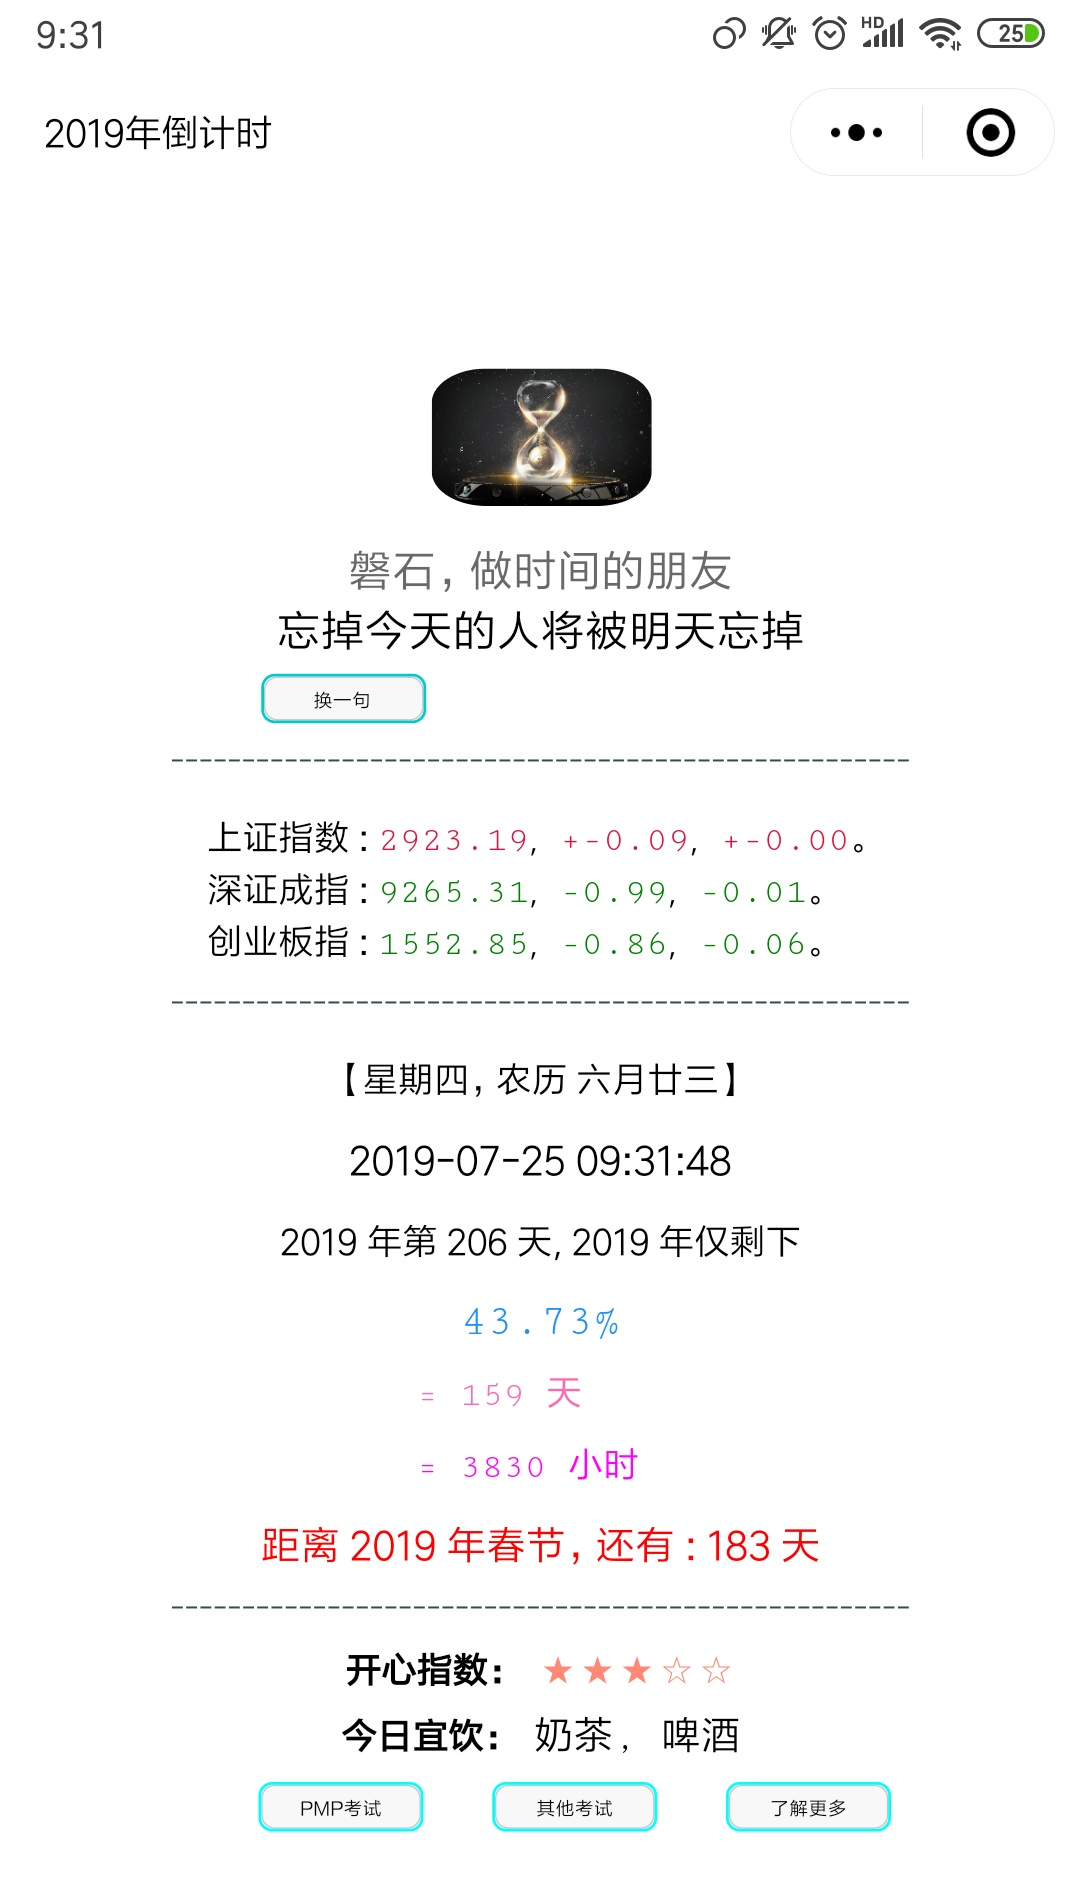
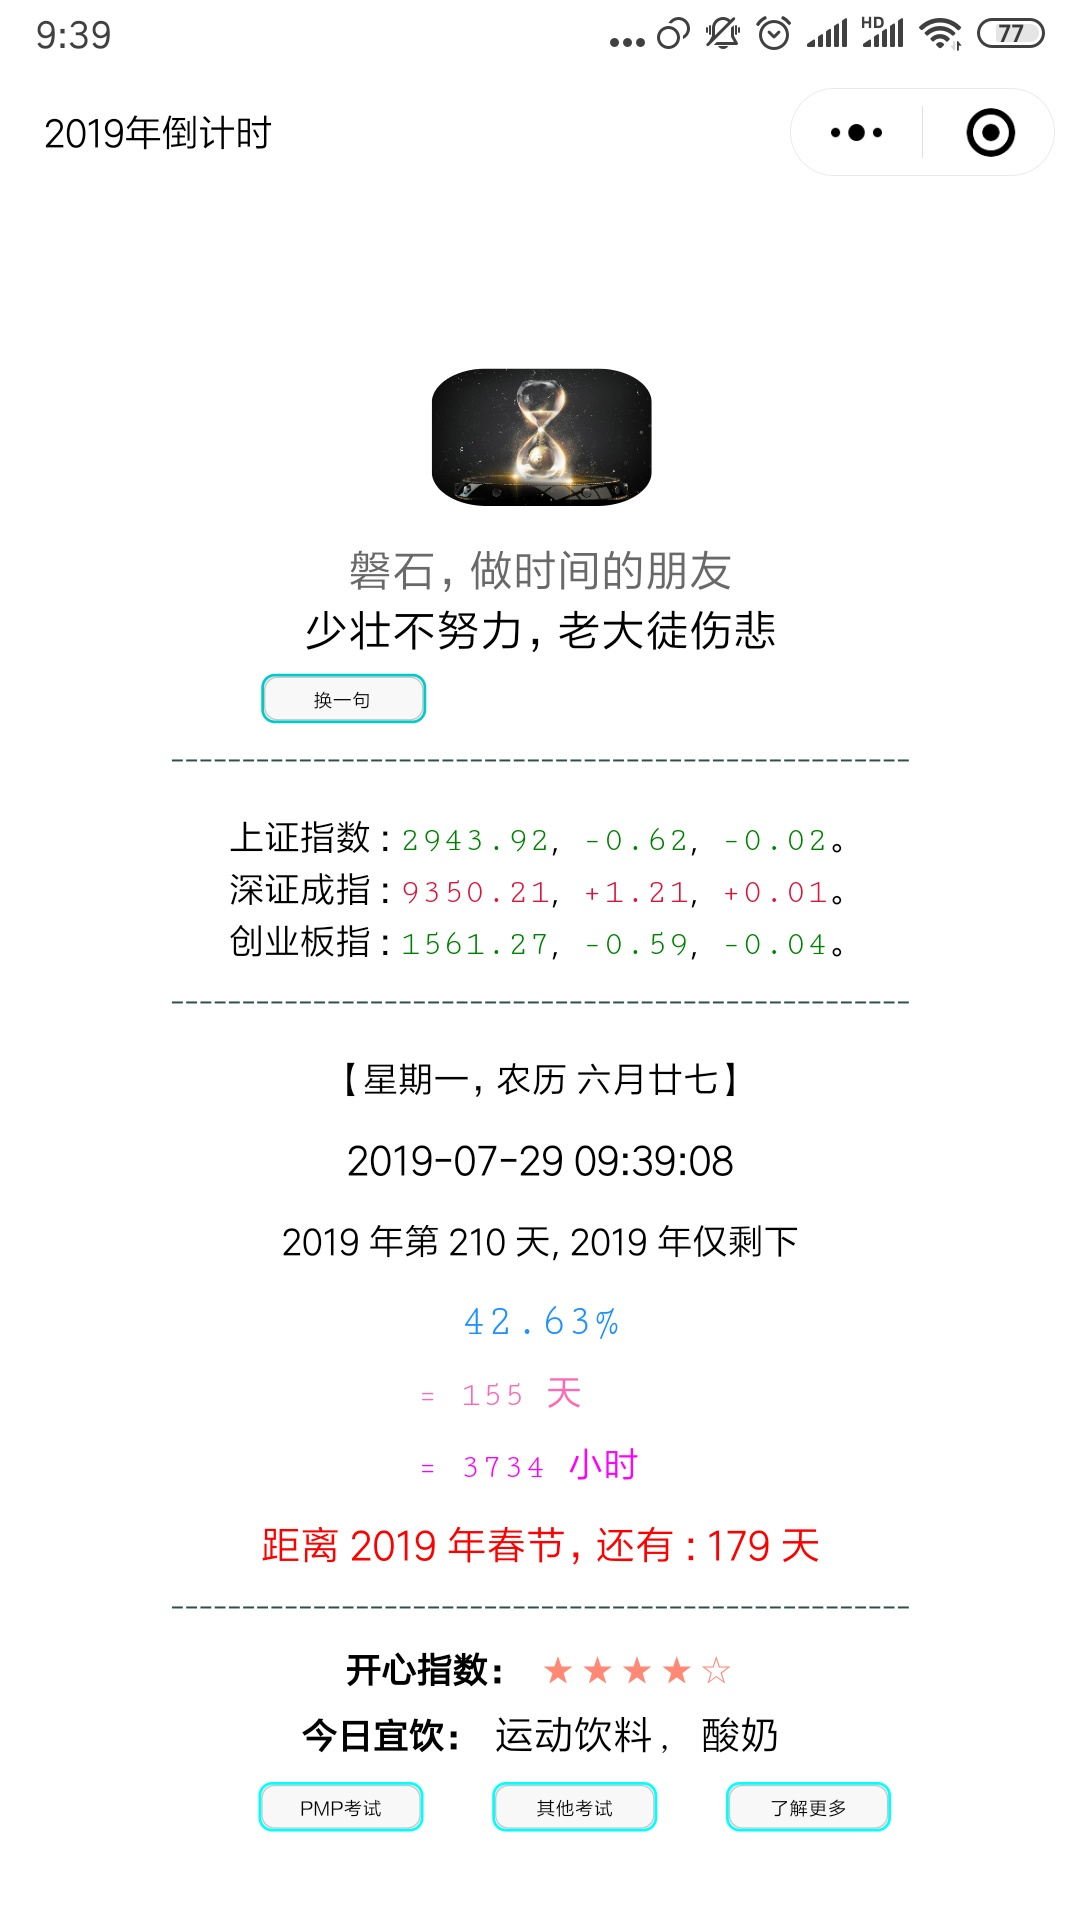
update 20190731

diff --git a/source/_posts/001_2-FD_my_life_records-2019.md b/source/_posts/001_2-FD_my_life_records-2019.md
@@ -1,5 +1,5 @@
 ---
-title: 坚持的力量之数据人生-2019年7月26日
+title: 坚持的力量之数据人生-2019年7月29日
 tags:
   - 数据人生
   - 参考模板
@@ -20,14 +20,14 @@ keywords:
   - 宽978高553
 photos:
   - '/images/001_2/photos.png'
-description: 今天：2019 年 7 月 26 日，2019 年仅剩下 158 天。坚持记录和分析生活中的数据、信息和事件，尊重历史数据、信息和事件，人生将会更美好。
-date: 2019-07-26 00:02:05
+description: 今天：2019 年 7 月 29 日，2019 年仅剩下 155 天。坚持记录和分析生活中的数据、信息和事件，尊重历史数据、信息和事件，人生将会更美好。
+date: 2019-07-29 00:02:05
 ---
 <script type="text/javascript" src="/js/src/bai.js"></script>
 
-### 坚持的力量之数据人生-2019年7月26日
+### 坚持的力量之数据人生-2019年7月29日
 ------
-> 今天：2019 年 7 月 26 日，2019 年仅剩下 158 天。坚持记录和分析生活中的数据、信息和事件，尊重历史数据、信息和事件，人生将会更美好。
+> 今天：2019 年 7 月 29 日，2019 年仅剩下 155 天。坚持记录和分析生活中的数据、信息和事件，尊重历史数据、信息和事件，人生将会更美好。
 >
 > 序言：坚持记录和分析生活中的数据、信息和事件，尊重历史数据、信息和事件，人生将会更美好。
 
@@ -67,11 +67,11 @@ date: 2019-07-26 00:02:05
 
 | 序号 |       名称                                            |  类型  | 开始/结束日期 | 总天数 |          备注                           |
 | :--: | :---------------------------------------------------: | :----: | :-----------: | :----: | :-------------------------------------: |
-|  1   | <font color="#FF0000" size=2>读书荐书第 4/4 更</font> | 倒计时 | 2019/10/01    |  67    | 开始时间：2019/7/1                      |
-|  2   | <font color="#FF0000" size=2>重要节点</font>          | 倒计时 | 2020/03/01    |  220   | 开始时间：2018/6/15 剩余 10 个月        |
-|  3   | <font color="#6495ED" size=2>来上海</font>            | 计时   | 2011/06/25    |  2953  | 第 8 年进行中                           |
-|  4   | <font color="#6495ED" size=2>莫名其妙的计时</font>    | 计时   | 2018/11/12    |  252   | 莫名其妙的计时，希望永远不会停 ！！！   |
-|  5   | <font color="#6495ED" size=2>坚持减肥-2</font>        | 计时   | 2019/06/28    |  31    | 坚持减肥，目标 65 公斤，保持一个月      |
+|  1   | <font color="#FF0000" size=2>读书荐书第 4/4 更</font> | 倒计时 | 2019/10/01    |  64    | 开始时间：2019/7/1                      |
+|  2   | <font color="#FF0000" size=2>重要节点</font>          | 倒计时 | 2020/03/01    |  217   | 开始时间：2018/6/15 剩余 10 个月        |
+|  3   | <font color="#6495ED" size=2>来上海</font>            | 计时   | 2011/06/25    |  2956  | 第 8 年进行中                           |
+|  4   | <font color="#6495ED" size=2>莫名其妙的计时</font>    | 计时   | 2018/11/12    |  255   | 莫名其妙的计时，希望永远不会停 ！！！   |
+|  5   | <font color="#6495ED" size=2>坚持减肥-3               | 计时   | 2019/08/31    |  1     | 坚持减肥，目标 65 公斤，保持一个月      |
 |  6   | <font color="#6495ED" size=2>每日一章札记</font>      | 计时   | 2018/05/26    |  210   | 无特殊情况每日读一章书且并做笔记        |
 |  7   | <font color="#6495ED" size=2>每日五篇好文推荐</font>  | 计时   | 2018/10/24    |  60    | 无特殊情况从自己读的文章中推荐五篇      |
 |  8   | <font color="#6495ED" size=2>公众号更新</font>        | 计时   | 2018/12/01    |  80    | 无特殊情况微信公众号日更（4 篇删除）    |
@@ -82,11 +82,11 @@ date: 2019-07-26 00:02:05
 
 | 日期                                   | 记账新增记录 | 记账总记录 | 记账总天数 | 记账时间      | 备注     |
 | :------:                               | :------:     | :------:   | :------:   | :------:      | :------: |
-|<font color="#000000"> 20190722 </font> | 23           | 10526      | 3072       | 8 年零 144 天 | 无       |
-|<font color="#000000"> 20190723 </font> | 2            | 10528      | 3074       | 8 年零 145 天 | 无       |
-|<font color="#000000"> 20190724 </font> | 3            | 10531      | 3075       | 8 年零 146 天 | 无       |
 |<font color="#000000"> 20190725 </font> | 2            | 10533      | 3076       | 8 年零 147 天 | 无       |
-|<font color="#FF0000"> 20190726 </font> | 6            | 10539      | 3077       | 8 年零 148 天 | 无       |
+|<font color="#000000"> 20190726 </font> | 6            | 10539      | 3077       | 8 年零 148 天 | 无       |
+|<font color="#000000"> 20190727 </font> | 4            | 10543      | 3078       | 8 年零 149 天 | 无       |
+|<font color="#000000"> 20190728 </font> | 3            | 10546      | 3079       | 8 年零 150 天 | 无       |
+|<font color="#FF0000"> 20190729 </font> | 10           | 10556      | 3080       | 8 年零 151 天 | 无       |
 
 #### 3. 历史数据汇总
 ##### 3.1 已结束倒计时或计时数据
@@ -101,10 +101,11 @@ date: 2019-07-26 00:02:05
 |  6   | 小袋鼠回老家家-2  | 计时   | 2019/01/13    |  116   | 截止 2019/05/09，在老家呆的时间（已结束） |
 |  7   | 小袋鼠回老家家-3  | 倒计时 | 2019/05/18    |  0     | 开始时间：2019/5/10，回老家               |
 |  8   | 第一阶段减肥      | 倒计时 | 2019/07/01    |  5     | 目标 68，开始 20190420，20190626：67.5    |
-|  9   | 坚持减肥-1        | 计时   | 2019/04/20    |  68    | 坚持减肥，目标 68 公斤，20160628：67.5    |
+|  9   | 坚持减肥-1        | 计时   | 2019/04/20    |  67    | 坚持减肥，目标 68 公斤，20160628：67.5    |
 |  10  | 读书荐书第 3/4 更 | 倒计时 | 2019/07/01    |  0     | 开始时间：2019/4/2（已结束）              |
 |  11  | 小袋鼠回老家家-4  | 计时   | 2019/05/19    |  47    | 截止 2019/07/04，在老家呆的时间（已结束） |
 |  12  | 小袋鼠回上海      | 倒计时 | 2019/07/05    |  0     | 开始时间：2018/6/24 剩余 11 天（已结束）  |
+|  13  | 坚持减肥-2        | 计时   | 2019/06/29    |  33    | 坚持减肥，目标 65 公斤，保持一个月        |
 
 ##### 3.2 当年记账历史数据
 | 序号     | 月份      | 累计记账条数| 备注                     |

diff --git a/source/_posts/001_1-FD_2018_year_all_checker-2019.md b/source/_posts/001_1-FD_2018_year_all_checker-2019.md
@@ -1,5 +1,5 @@
 ---
-title: 2019年每日日常综合打卡-2019年7月26日
+title: 2019年每日日常综合打卡-2019年7月29日
 tags:
   - 数据人生
   - 参考模板
@@ -21,14 +21,14 @@ keywords:
   - 宽978高553
 photos:
   - '/images/001_1/photos.png'
-description: 今天：2019 年 7 月 26 日，2019 年仅剩下 158 天。每日打卡，7 月份针对每个任务打卡，慢慢来，一切都会更好的。
-date: 2019-07-26 00:01:01
+description: 今天：2019 年 7 月 29 日，2019 年仅剩下 155 天。每日打卡，7 月份针对每个任务打卡，慢慢来，一切都会更好的。
+date: 2019-07-29 00:01:01
 ---
 <script type="text/javascript" src="/js/src/bai.js"></script>
 
-### 2019年每日日常综合打卡-2019年7月26日
+### 2019年每日日常综合打卡-2019年7月29日
 ---
-> 今天：2019 年 7 月 26 日，2018 年仅剩下 158 天。每日打卡，7 月份针对每个任务打卡，慢慢来，一切都会更好的。
+> 今天：2019 年 7 月 29 日，2018 年仅剩下 155 天。每日打卡，7 月份针对每个任务打卡，慢慢来，一切都会更好的。
 ---
 
 #### 2019 年年历
@@ -77,9 +77,9 @@ date: 2019-07-26 00:01:01
 | 24 |四 ⭕  |日 ⭕  |日 ⭕  |三 ⭕  |五 ⭕  |一 ⭕  |三 ⭕  |六     |二     |四     |日     |二     |
 | 25 |五 ⭕  |一 ⭕  |一 ⭕  |四 ⭕  |六 ⭕  |二 ⭕  |四 ⭕  |日     |三     |五     |一     |三     |
 | 26 |六 ⭕  |二 ⭕  |二 ⭕  |五 ⭕  |日 ⭕  |三 ⭕  |五 ⭕  |一     |四     |六     |二     |四     |
-| 27 |日 ⭕  |三 ⭕  |三 ⭕  |六 ⭕  |一 ⭕  |四 ⭕  |六     |二     |五     |日     |三     |五     |
-| 28 |一 ⭕  |四 ⭕  |四 ⭕  |日 ⭕  |二 ⭕  |五 ⭕  |日     |三     |六     |一     |四     |六     |
-| 29 |二 ⭕  |无     |五 ⭕  |一 ⭕  |三 ⭕  |六 ⭕  |一     |四     |日     |二     |五     |日     |
+| 27 |日 ⭕  |三 ⭕  |三 ⭕  |六 ⭕  |一 ⭕  |四 ⭕  |六 ⭕  |二     |五     |日     |三     |五     |
+| 28 |一 ⭕  |四 ⭕  |四 ⭕  |日 ⭕  |二 ⭕  |五 ⭕  |日 ⭕  |三     |六     |一     |四     |六     |
+| 29 |二 ⭕  |无     |五 ⭕  |一 ⭕  |三 ⭕  |六 ⭕  |一 ⭕  |四     |日     |二     |五     |日     |
 | 30 |三 ⭕  |无     |六 ⭕  |二 ⭕  |四 ⭕  |日 ⭕  |二     |五     |一     |三     |六     |一     |
 | 31 |四 ⭕  |无     |日 ⭕  |无     |五 ⭕  |无     |三     |六     |无     |四     |无     |二     ||
 
@@ -115,9 +115,9 @@ date: 2019-07-26 00:01:01
 | 24 <font color="#000000">三</font> | ⭕        | ⭕        | ⭕        | ⭕        | ❌         | ⭕        |           |
 | 25 <font color="#000000">四</font> | ⭕        | ⭕        | ⭕        | ⭕        | ⭕        | ⭕        |           |
 | 26 <font color="#000000">五</font> | ⭕        | ⭕        | ❌         | ⭕        | ❌         | ⭕        |           |
-| 27 <font color="#FF0000">六</font> |           |           |           |           |           |           |           |
-| 28 <font color="#FF0000">日</font> |           |           |           |           |           |           |           |
-| 29 <font color="#000000">一</font> |           |           |           |           |           |           |           |
+| 27 <font color="#FF0000">六</font> | ⭕        | ⭕        | ❌         | ❌         | ❌         | ⭕        |           |
+| 28 <font color="#FF0000">日</font> | ⭕        | ⭕        | ❌         | ❌         | ❌         | ⭕        |减肥结束 100 天 |
+| 29 <font color="#000000">一</font> | ⭕        | ⭕        | ❌         | ❌         | ❌         | ❌         |           |
 | 30 <font color="#000000">二</font> |           |           |           |           |           |           |           |
 | 31 <font color="#000000">三</font> |           |           |           |           |           |           |           |
 
